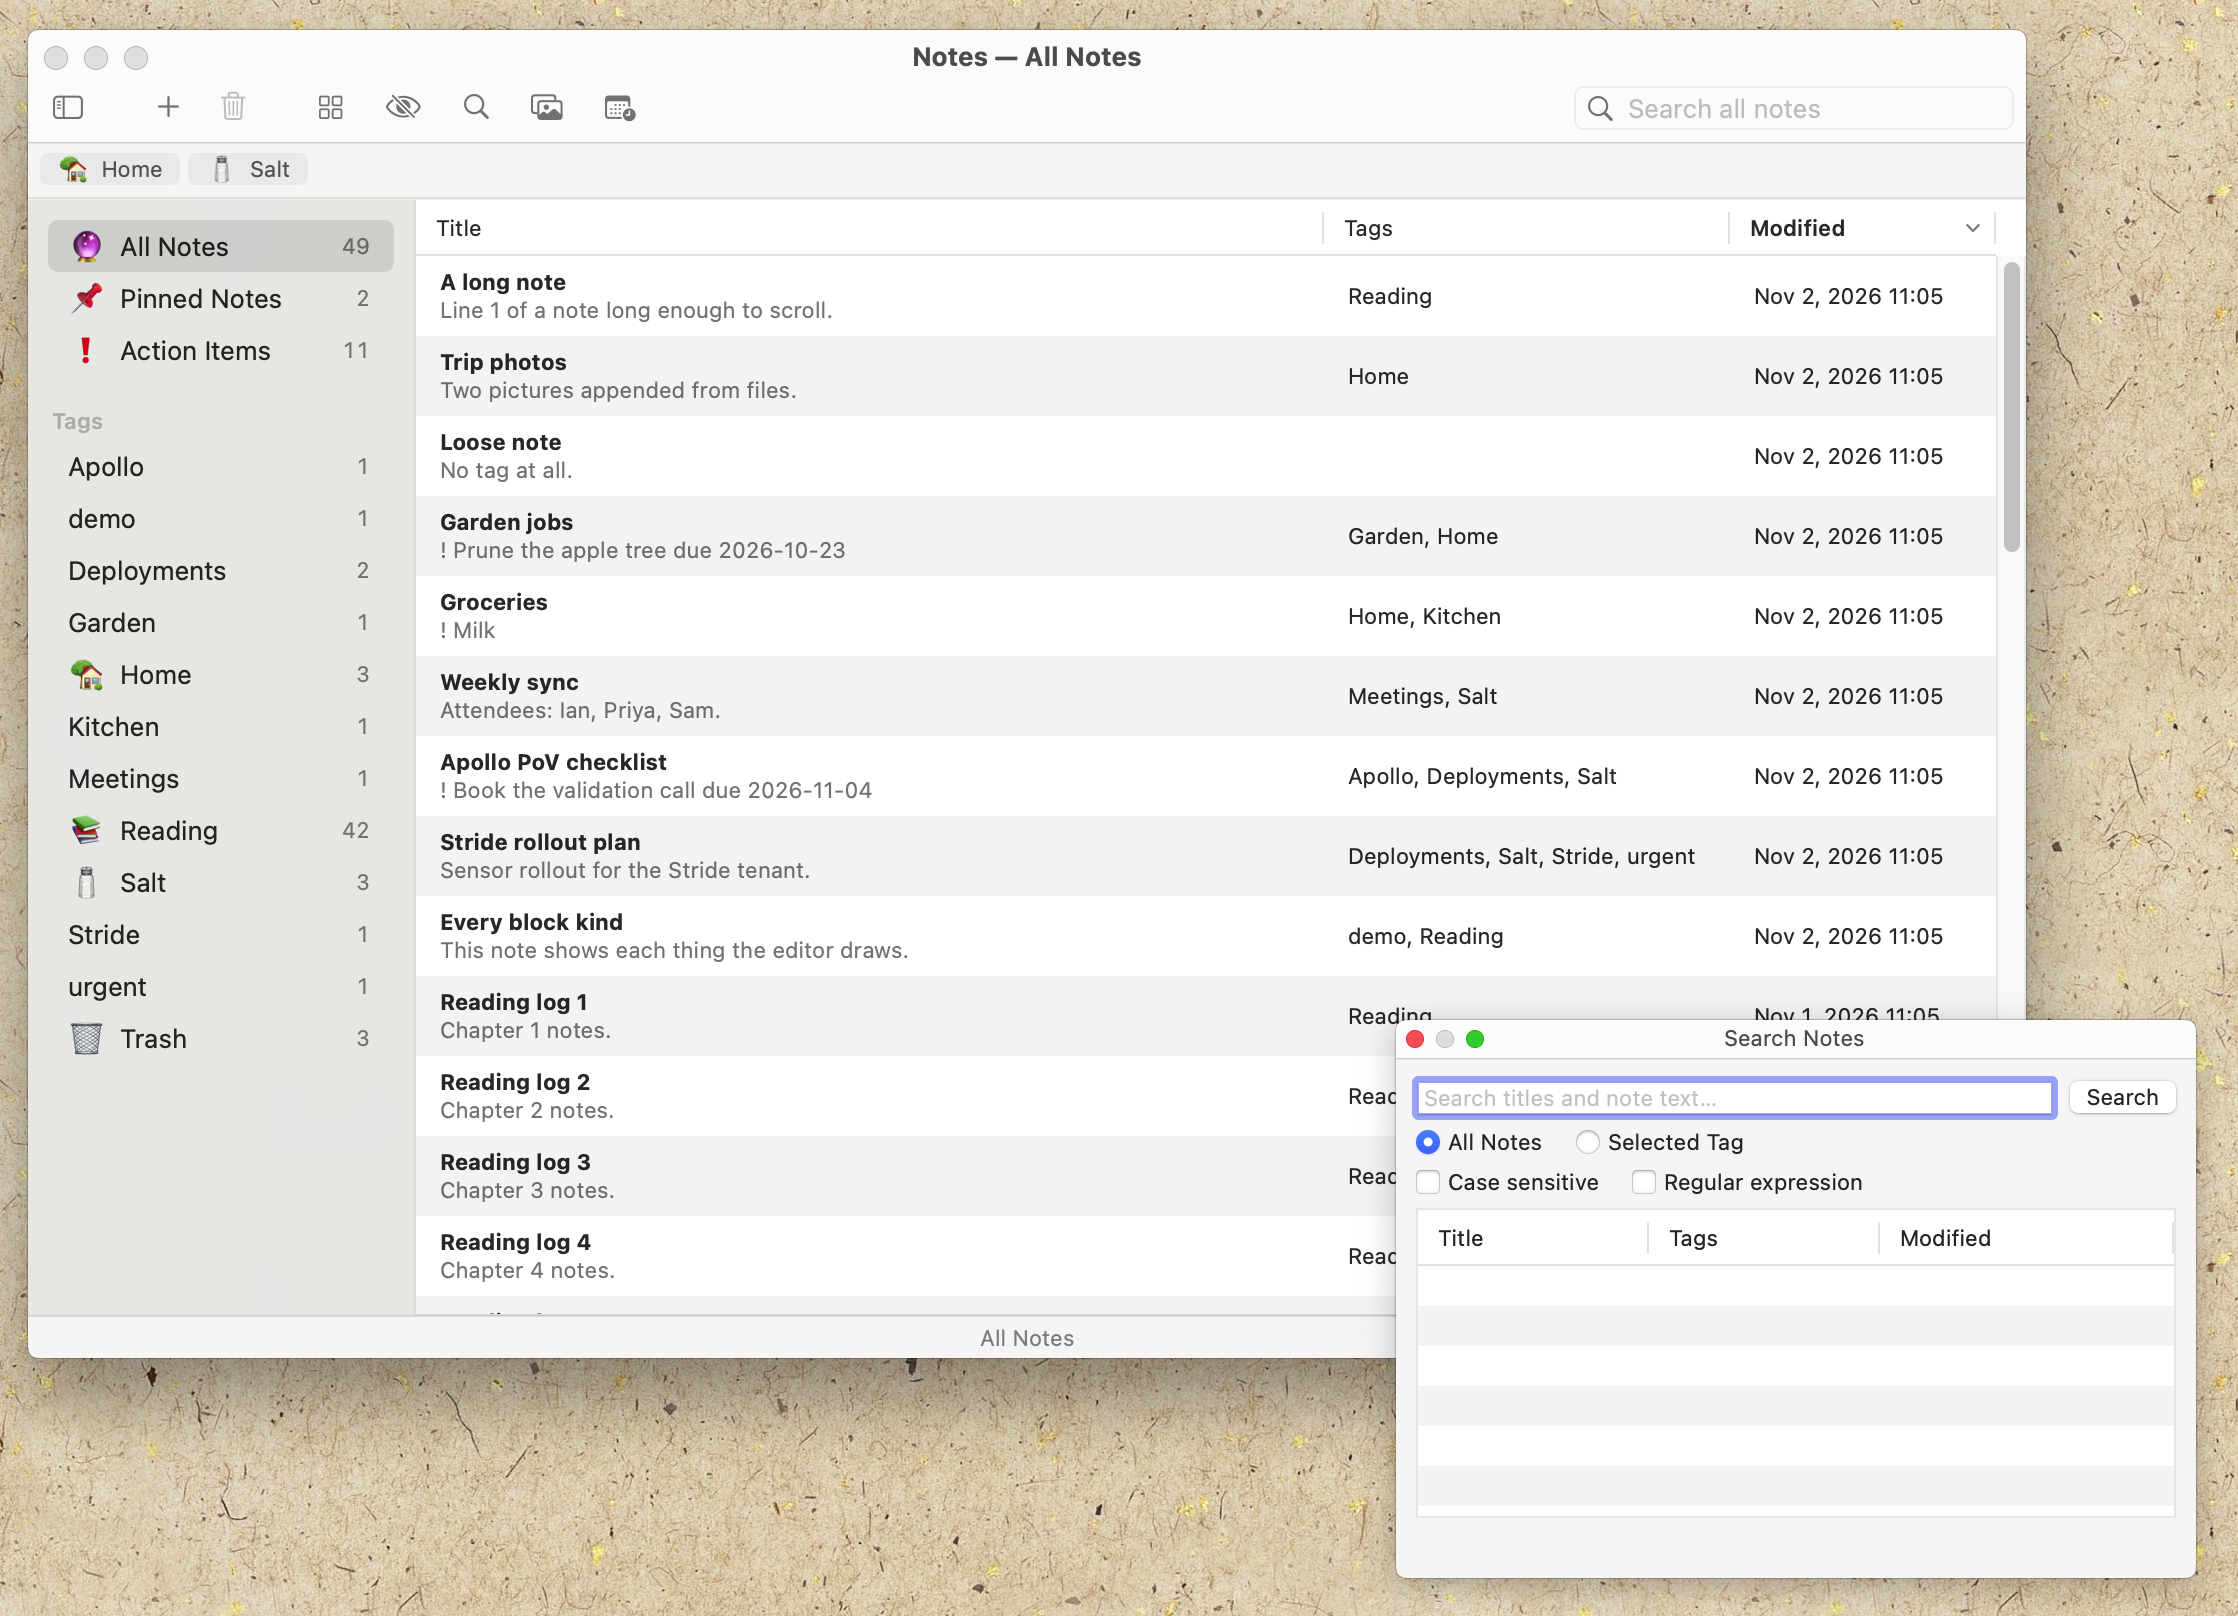
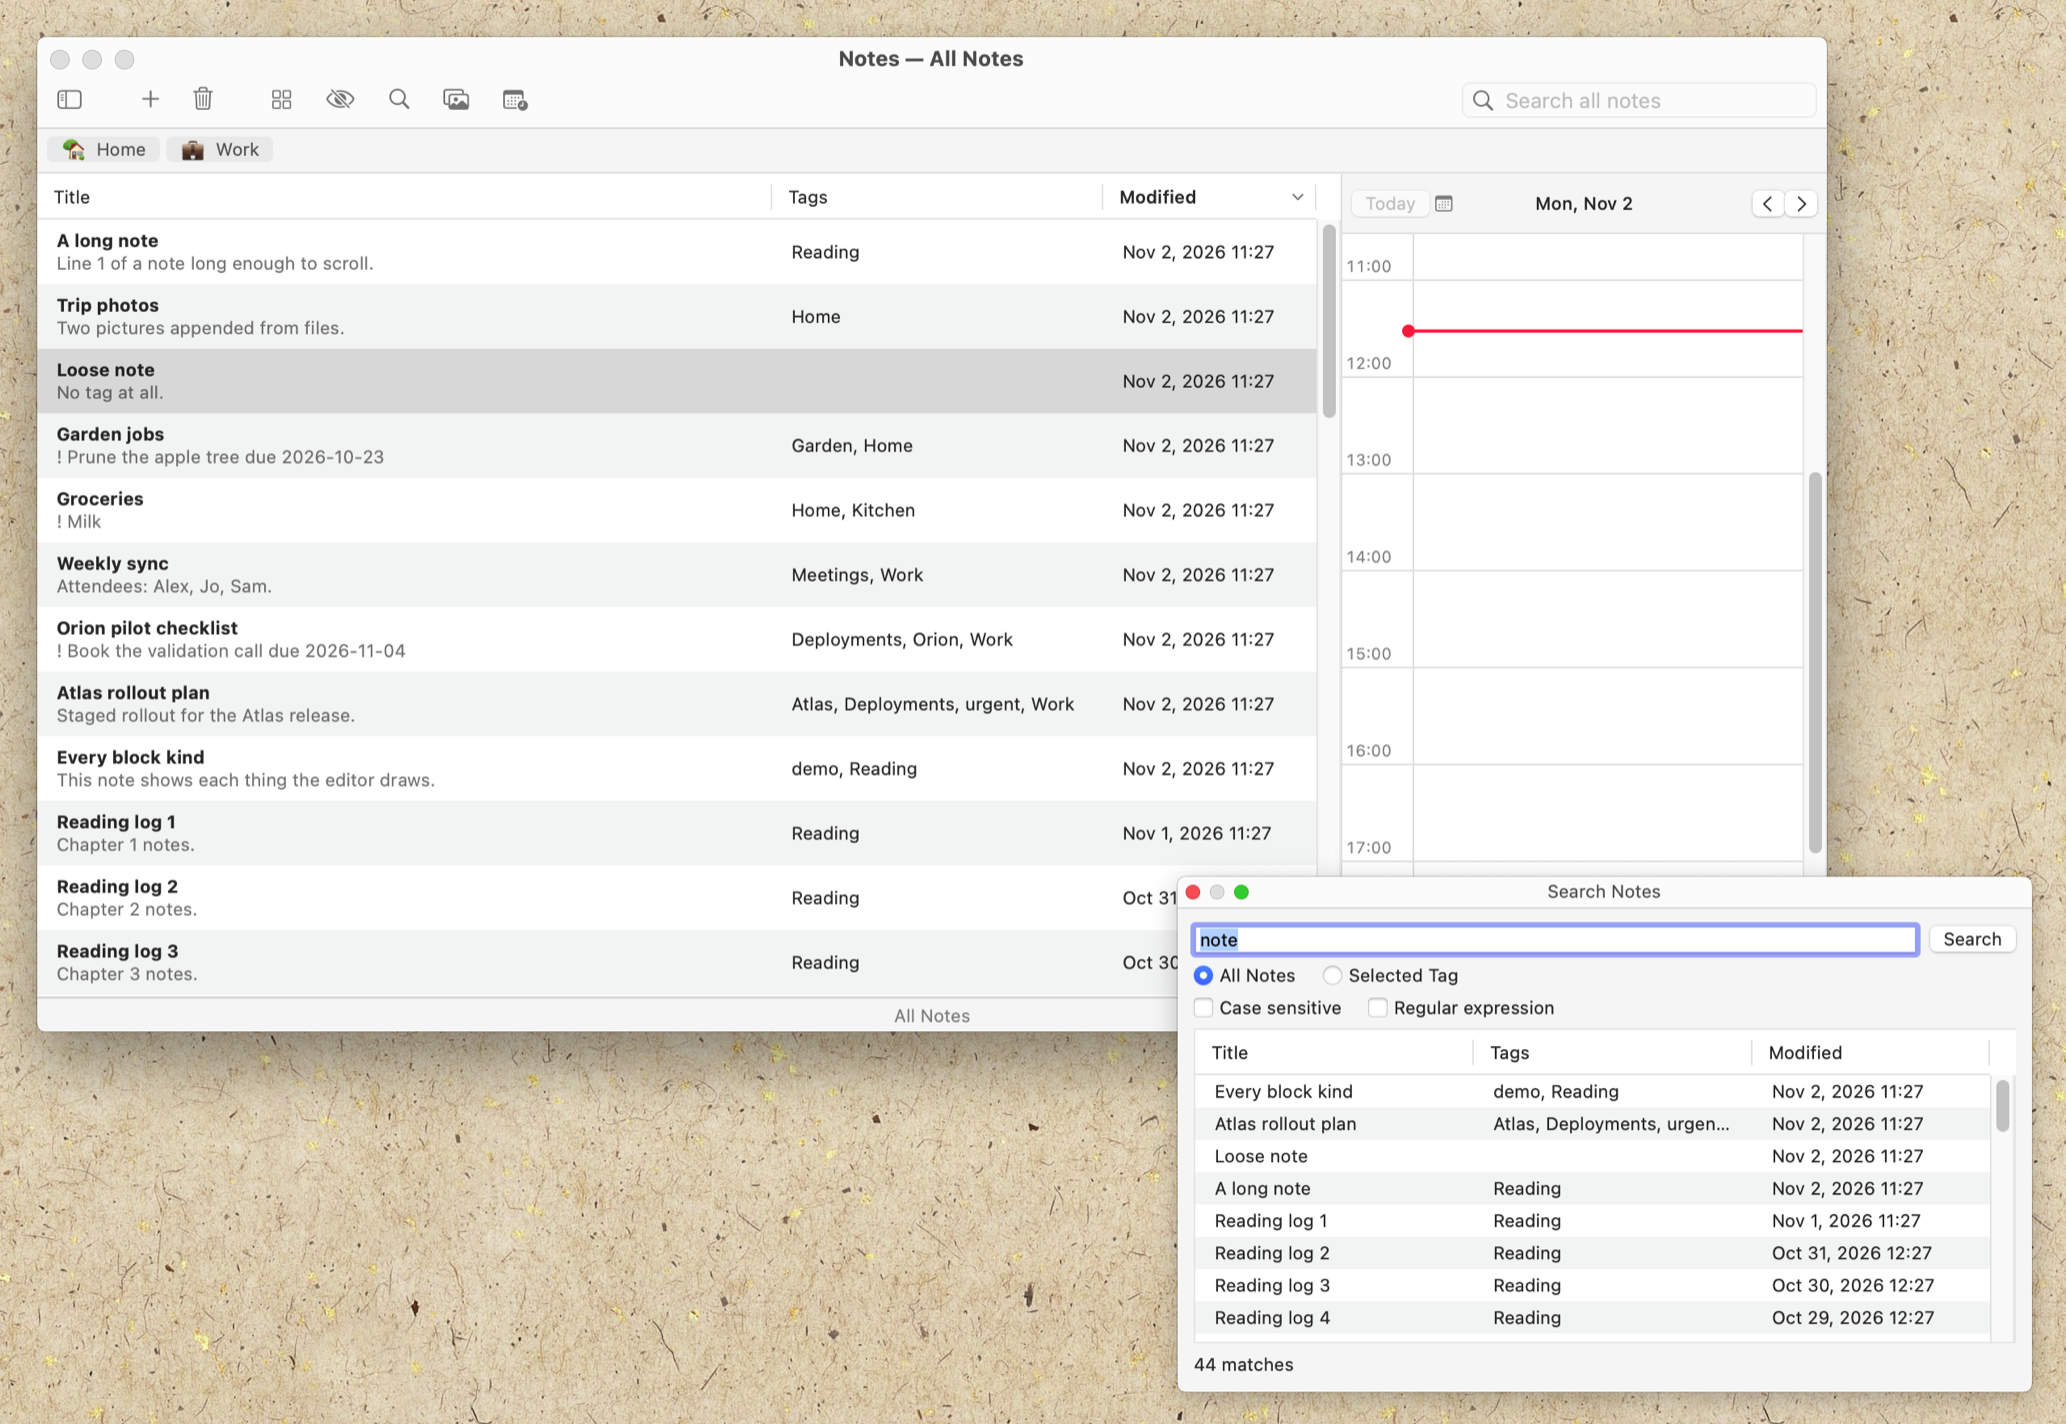
Neutral names in the development seed, and a new screenshot
The seed carried the author's employer's vocabulary — a Salt tag, Stride
and Apollo projects, Kong and Apigee in the table, colleagues by name,
"sensor rollout" and "PoV" — which the README screenshot then put on
display. The note count, the tags per note, the block kinds and the
action items are unchanged; only the strings differ: Work (briefcase) in
place of Salt, Atlas and Orion for the two projects, Gateway and Indexer
in the table, and Alex, Jo and Sam for the people.

The screenshot is the library on that seed, with the day planner open and
a search running, resampled to 2066 px wide to match the Files and Tasks
screenshots.

diff --git a/tools/dev_seed.c b/tools/dev_seed.c
@@ -3,7 +3,7 @@
  *
  * `make seed` (tools/seed-dev.sh) builds dev/data/shared_data.db (the file
  * $CAMBIO_SHARED_DB names) with this tool:
- * #tags on notes' bottom lines (a deployment's notes carry Salt,
+ * #tags on notes' bottom lines (a deployment's notes carry Work,
  * Deployments and its own, as the move from folders gave them; some tags
  * with an emoji, two Notes favorites), pinned notes, three trashed notes (one
  * with tags of its own), a note with every
@@ -110,9 +110,9 @@ static void
 add_table(OnDocument *doc)
 {
     static const char *const cells[3][3] = {
-        { "Collector",   "Status",       "Owner"  },
-        { "Kong",        "Deployed",     "Ian"    },
-        { "Apigee",      "In review\nsecond line", "Priya" },
+        { "Service",     "Status",       "Owner"  },
+        { "Gateway",     "Deployed",     "Alex"   },
+        { "Indexer",     "In review\nsecond line", "Sam" },
     };
     OnBlock *t = on_block_new_table(3, 3);
     t->header = TRUE;
@@ -313,9 +313,9 @@ seed(OnApp *app, GBytes *image, GBytes *photo)
     /* The folder tags, as the move from folders made them (every folder on
      * a note's path became a tag of it) and Notes then wrote them into the
      * text.                                                                */
-    const char *const stride_f[] = { "Salt", "Deployments", "Stride", NULL };
-    const char *const apollo_f[] = { "Salt", "Deployments", "Apollo", NULL };
-    const char *const meet_f[]   = { "Salt", "Meetings", NULL };
+    const char *const atlas_f[]  = { "Work", "Deployments", "Atlas", NULL };
+    const char *const orion_f[]  = { "Work", "Deployments", "Orion", NULL };
+    const char *const meet_f[]   = { "Work", "Meetings", NULL };
     const char *const kitchen[]  = { "Home", "Kitchen", NULL };
     const char *const garden_f[] = { "Home", "Garden", NULL };
     const char *const home[]     = { "Home", NULL };
@@ -328,24 +328,24 @@ seed(OnApp *app, GBytes *image, GBytes *photo)
     ok = ok && rich != 0 && seed_rich(db, rich, image);
 
     gchar *text = g_strdup_printf(
-        "Stride rollout plan\n\nSensor rollout for the Stride tenant.\n"
-        "! Rerun the traffic reports due %s\n! Confirm the collector version due %s\n"
-        "! Send the summary to Priya due %s\n! Archive the old dashboards\n"
+        "Atlas rollout plan\n\nStaged rollout for the Atlas release.\n"
+        "! Rerun the load tests due %s\n! Confirm the build version due %s\n"
+        "! Send the summary to Sam due %s\n! Archive the old dashboards\n"
         "Notes from the kickoff call.", d_3, d0, d5);
-    gint64 stride = note(db, stride_f, text, (const char *[]){ "salt", "urgent", NULL }, NULL);
+    gint64 atlas = note(db, atlas_f, text, (const char *[]){ "work", "urgent", NULL }, NULL);
     g_free(text);
-    ok = ok && stride != 0 && done(app, stride, 3);
+    ok = ok && atlas != 0 && done(app, atlas, 3);
 
-    text = g_strdup_printf("Apollo PoV checklist\n\n! Book the validation call due %s\n"
-                           "! Collect sample traffic due %s\nKong plugin deployed in staging.",
+    text = g_strdup_printf("Orion pilot checklist\n\n! Book the validation call due %s\n"
+                           "! Collect sample data due %s\nGateway plugin deployed in staging.",
                            d2, d9);
-    ok = ok && note(db, apollo_f, text, (const char *[]){ "salt", NULL }, NULL) != 0;
+    ok = ok && note(db, orion_f, text, (const char *[]){ "work", NULL }, NULL) != 0;
     g_free(text);
 
-    text = g_strdup_printf("Weekly sync\n\nAttendees: Ian, Priya, Sam.\n"
+    text = g_strdup_printf("Weekly sync\n\nAttendees: Alex, Jo, Sam.\n"
                            "! Circulate the minutes due %s\n"
-                           "Decisions: ship the hybrid upgrade next sprint.", d1);
-    gint64 meeting = note(db, meet_f, text, (const char *[]){ "salt", "meetings", NULL }, NULL);
+                           "Decisions: ship the search upgrade next sprint.", d1);
+    gint64 meeting = note(db, meet_f, text, (const char *[]){ "work", "meetings", NULL }, NULL);
     g_free(text);
     ok = ok && meeting != 0 && done(app, meeting, 0);
 
@@ -373,7 +373,7 @@ seed(OnApp *app, GBytes *image, GBytes *photo)
     ok = ok && note(db, reading, lines->str, NULL, NULL) != 0;
     g_string_free(lines, TRUE);
 
-    ok = ok && on_db_note_set_pinned(db, stride, TRUE) &&
+    ok = ok && on_db_note_set_pinned(db, atlas, TRUE) &&
          on_db_note_set_pinned(db, groceries, TRUE);
 
     /* Emoji on three tags (Tasks shows them too), and two Notes favorites. */
@@ -382,7 +382,7 @@ seed(OnApp *app, GBytes *image, GBytes *photo)
         const char *emoji;
         gboolean    favorite;
     } looks[] = {
-        { "Salt",    "\xf0\x9f\xa7\x82", TRUE  },
+        { "Work",    "\xf0\x9f\x92\xbc", TRUE  },
         { "Home",    "\xf0\x9f\x8f\xa1", TRUE  },
         { "Reading", "\xf0\x9f\x93\x9a", FALSE },
     };

diff --git a/README.md b/README.md
@@ -1,6 +1,6 @@
 # Notes
 
-![Notes, the library and search](images/screenshot.png)
+![Notes: the library, the day planner and a search](images/screenshot.png)
 
 Notes is a note-taking app that replaces Notes on macOS — a native AppKit
 app with its own block document model, rich text with images, tables and
